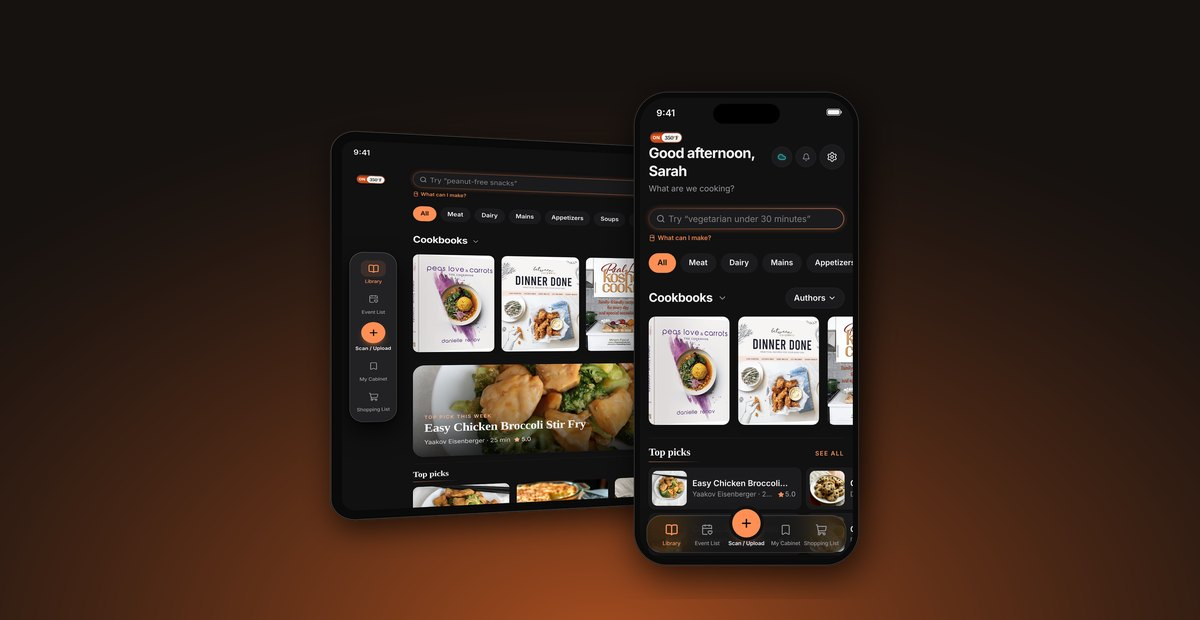
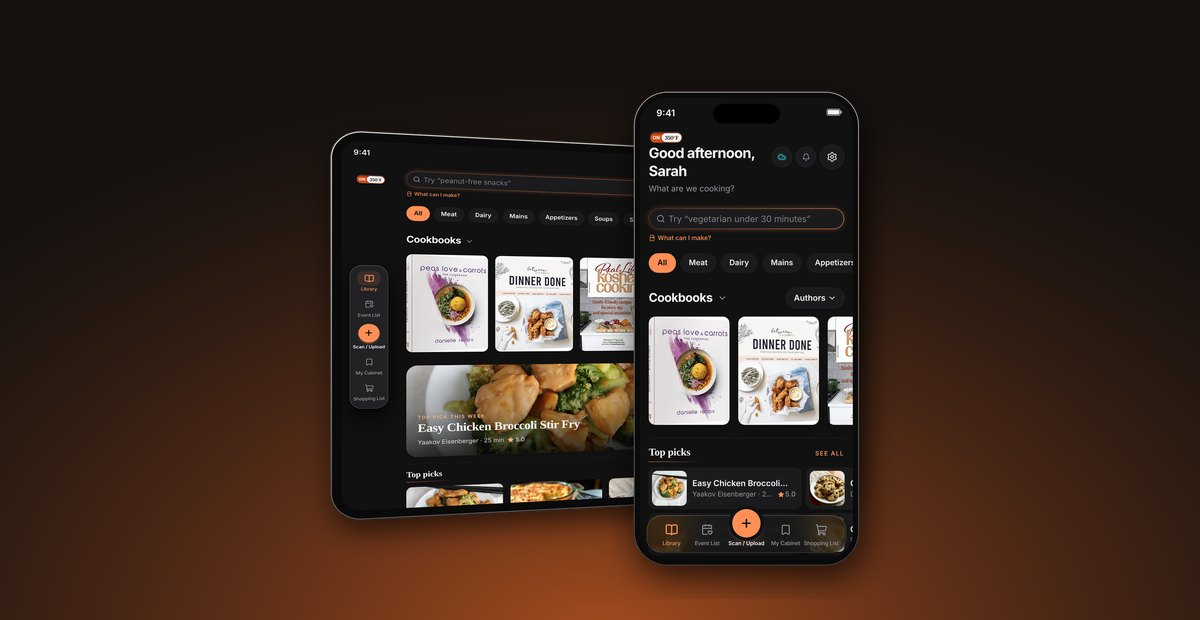
Website, email and welcome pictures: devices with their metal rim, compact side menu (#182)
Claude-Session: https://claude.ai/code/session_01ADXpCTEnMXBBp4mHBc7Y2V

Changed region(s): [[0.2775, 0.2758, 0.555, 0.8274], [0.3392, 0.2145, 0.4933, 0.2452], [0.555, 0.1226, 0.6783, 0.1532]]

diff --git a/on350-app/dist/sw.js b/on350-app/dist/sw.js
@@ -1,1 +1,1 @@
-if(!self.define){let s,e={};const n=(n,i)=>(n=new URL(n+".js",i).href,e[n]||new Promise(e=>{if("document"in self){const s=document.createElement("script");s.src=n,s.onload=e,document.head.appendChild(s)}else s=n,importScripts(n),e()}).then(()=>{let s=e[n];if(!s)throw new Error(`Module ${n} didn’t register its module`);return s}));self.define=(i,l)=>{const r=s||("document"in self?document.currentScript.src:"")||location.href;if(e[r])return;let o={};const d=s=>n(s,r),u={module:{uri:r},exports:o,require:d};e[r]=Promise.all(i.map(s=>u[s]||d(s))).then(s=>(l(...s),o))}}define(["./workbox-9c191d2f"],function(s){"use strict";self.skipWaiting(),s.clientsClaim(),s.precacheAndRoute([{url:"registerSW.js",revision:"1872c500de691dce40960bb85481de07"},{url:"index.html",revision:"79f85221c3801adeada0bd022780b035"},{url:"icons/icon-maskable-512.png",revision:"26d75d5eb4c10d02fcc817773d1bcbe4"},{url:"icons/icon-512.png",revision:"a9a29668524cfb1b1335d4346d78513d"},{url:"icons/icon-192.png",revision:"f194002a84529ad3b7bd275267dcead4"},{url:"icons/favicon-64.png",revision:"b653eda74384dbf740c64af46835d65e"},{url:"icons/apple-touch-icon.png",revision:"354b032add9423b36210f9db1743ee38"},{url:"email/on350-hero.png",revision:"24bd7eaab57eeb24ef797b4ba1cbeec2"},{url:"brand/logo-toggle.png",revision:"b54b35fb0cb5df499a7ad045b4c98b92"},{url:"assets/web-dJkk__TK.js",revision:null},{url:"assets/web-QsInMhXz.js",revision:null},{url:"assets/web-IrRqTQ3G.js",revision:null},{url:"assets/web-Dta9OQCS.js",revision:null},{url:"assets/web-DhHKd8Wj.js",revision:null},{url:"assets/web-DZXxcdEz.js",revision:null},{url:"assets/web-BQTtqJdE.js",revision:null},{url:"assets/web-BKe_80yh.js",revision:null},{url:"assets/web-6rDk7yuD.js",revision:null},{url:"assets/index-CoL2g02P.js",revision:null},{url:"assets/index-Bal0bAad.css",revision:null},{url:"assets/esm-IHoxgAGH.js",revision:null},{url:"assets/esm-DfEvHI8_.js",revision:null},{url:"assets/esm-DcDJvgMv.js",revision:null},{url:"assets/esm-DIWCJTRA.js",revision:null},{url:"assets/esm-CusYet7V.js",revision:null},{url:"assets/esm-CnOFJJIz.js",revision:null},{url:"assets/esm-CgdhEcUj.js",revision:null},{url:"assets/esm-CNg3d0vz.js",revision:null},{url:"assets/esm-CMhtwnbs.js",revision:null},{url:"assets/esm-C2xs0B0h.js",revision:null},{url:"assets/AdminPage-REHA-2fD.js",revision:null},{url:"icons/apple-touch-icon.png",revision:"354b032add9423b36210f9db1743ee38"},{url:"icons/favicon-64.png",revision:"b653eda74384dbf740c64af46835d65e"},{url:"icons/icon-192.png",revision:"f194002a84529ad3b7bd275267dcead4"},{url:"icons/icon-512.png",revision:"a9a29668524cfb1b1335d4346d78513d"},{url:"icons/icon-maskable-512.png",revision:"26d75d5eb4c10d02fcc817773d1bcbe4"},{url:"brand/logo-toggle.png",revision:"b54b35fb0cb5df499a7ad045b4c98b92"},{url:"manifest.webmanifest",revision:"68cfcd0b270bcda3fe100d9cd17feefd"}],{}),s.cleanupOutdatedCaches(),s.registerRoute(new s.NavigationRoute(s.createHandlerBoundToURL("/index.html"),{denylist:[/^\/downloads\//,/^\/\.well-known\//]}))});
+if(!self.define){let s,e={};const n=(n,i)=>(n=new URL(n+".js",i).href,e[n]||new Promise(e=>{if("document"in self){const s=document.createElement("script");s.src=n,s.onload=e,document.head.appendChild(s)}else s=n,importScripts(n),e()}).then(()=>{let s=e[n];if(!s)throw new Error(`Module ${n} didn’t register its module`);return s}));self.define=(i,l)=>{const r=s||("document"in self?document.currentScript.src:"")||location.href;if(e[r])return;let o={};const d=s=>n(s,r),u={module:{uri:r},exports:o,require:d};e[r]=Promise.all(i.map(s=>u[s]||d(s))).then(s=>(l(...s),o))}}define(["./workbox-9c191d2f"],function(s){"use strict";self.skipWaiting(),s.clientsClaim(),s.precacheAndRoute([{url:"registerSW.js",revision:"1872c500de691dce40960bb85481de07"},{url:"index.html",revision:"79f85221c3801adeada0bd022780b035"},{url:"icons/icon-maskable-512.png",revision:"26d75d5eb4c10d02fcc817773d1bcbe4"},{url:"icons/icon-512.png",revision:"a9a29668524cfb1b1335d4346d78513d"},{url:"icons/icon-192.png",revision:"f194002a84529ad3b7bd275267dcead4"},{url:"icons/favicon-64.png",revision:"b653eda74384dbf740c64af46835d65e"},{url:"icons/apple-touch-icon.png",revision:"354b032add9423b36210f9db1743ee38"},{url:"email/on350-hero.png",revision:"24bd7eaab57eeb24ef797b4ba1cbeec2"},{url:"brand/logo-toggle.png",revision:"b54b35fb0cb5df499a7ad045b4c98b92"},{url:"assets/web-dJkk__TK.js",revision:null},{url:"assets/web-QsInMhXz.js",revision:null},{url:"assets/web-IrRqTQ3G.js",revision:null},{url:"assets/web-Dta9OQCS.js",revision:null},{url:"assets/web-DhHKd8Wj.js",revision:null},{url:"assets/web-DZXxcdEz.js",revision:null},{url:"assets/web-BQTtqJdE.js",revision:null},{url:"assets/web-BKe_80yh.js",revision:null},{url:"assets/web-6rDk7yuD.js",revision:null},{url:"assets/index-CoL2g02P.js",revision:null},{url:"assets/index-Bal0bAad.css",revision:null},{url:"assets/esm-IHoxgAGH.js",revision:null},{url:"assets/esm-DfEvHI8_.js",revision:null},{url:"assets/esm-DcDJvgMv.js",revision:null},{url:"assets/esm-DIWCJTRA.js",revision:null},{url:"assets/esm-CusYet7V.js",revision:null},{url:"assets/esm-CnOFJJIz.js",revision:null},{url:"assets/esm-CgdhEcUj.js",revision:null},{url:"assets/esm-CNg3d0vz.js",revision:null},{url:"assets/esm-CMhtwnbs.js",revision:null},{url:"assets/esm-C2xs0B0h.js",revision:null},{url:"assets/AdminPage-REHA-2fD.js",revision:null},{url:"brand/logo-toggle.png",revision:"b54b35fb0cb5df499a7ad045b4c98b92"},{url:"icons/apple-touch-icon.png",revision:"354b032add9423b36210f9db1743ee38"},{url:"icons/favicon-64.png",revision:"b653eda74384dbf740c64af46835d65e"},{url:"icons/icon-192.png",revision:"f194002a84529ad3b7bd275267dcead4"},{url:"icons/icon-512.png",revision:"a9a29668524cfb1b1335d4346d78513d"},{url:"icons/icon-maskable-512.png",revision:"26d75d5eb4c10d02fcc817773d1bcbe4"},{url:"manifest.webmanifest",revision:"68cfcd0b270bcda3fe100d9cd17feefd"}],{}),s.cleanupOutdatedCaches(),s.registerRoute(new s.NavigationRoute(s.createHandlerBoundToURL("/index.html"),{denylist:[/^\/downloads\//,/^\/\.well-known\//]}))});
